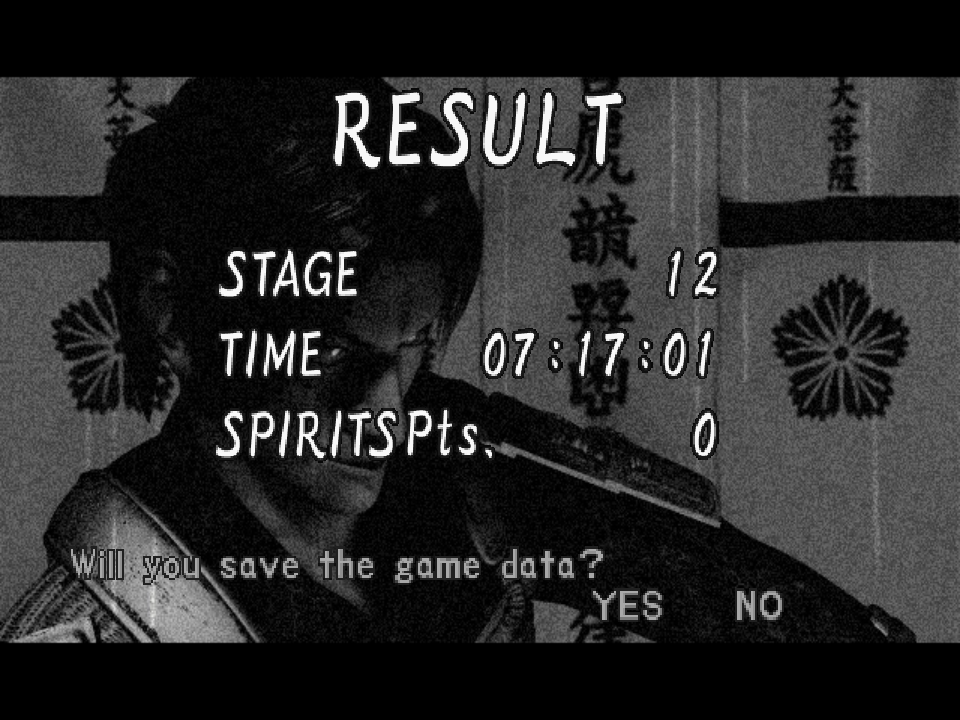
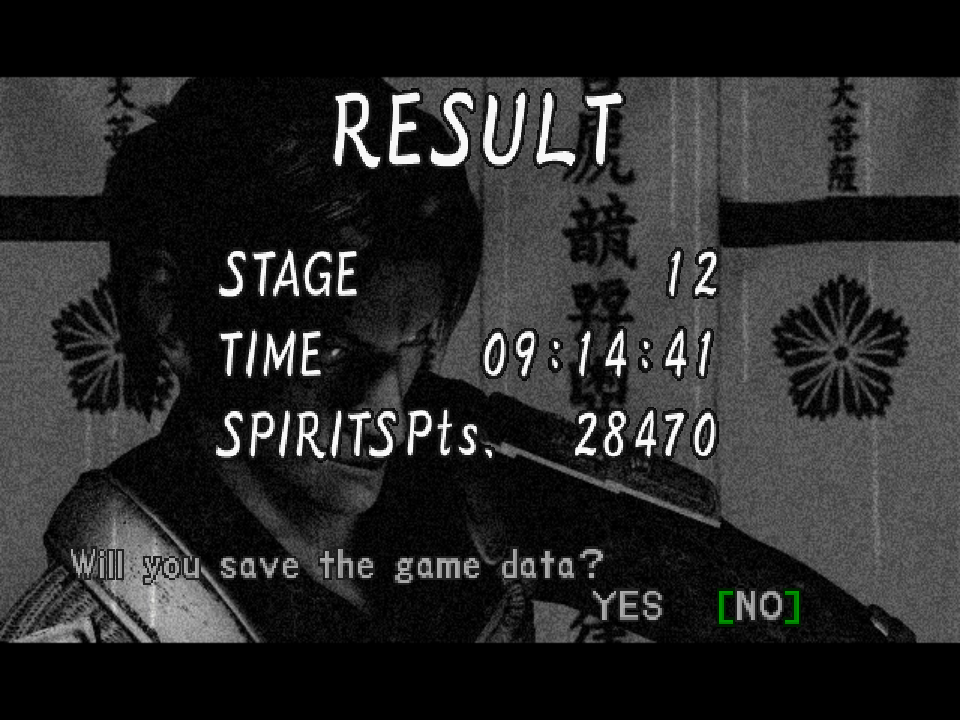
Movie captions drawn; sound measured on the real device; OPTION, Easy mode, spirit points checked
Captions: movies 04 and 05 carry caption lists (pairs of picture count and
caption) and the game draws a band of a caption sheet it keeps in VRAM
over the picture. The native vblankHandler now walks the list and
drawOver puts the band over the picture; checked on LINKS05.

Sound: with ONI_AUDIO_STATS a hidden window opens the real device and
feeds it silence of the frames' length, so scripted runs count underruns
on the device's clock. The late fights and the Dark Realm: none; Boss 3's
doorway load: a few.

Also checked: every OPTION page; Easy mode after the fourth game over
(the bot's new poke step sets the counter); Oni Spirits' points, the
grounds now absorbing the spirits (RESULT 28470 SPIRITS Pts.).

diff --git a/runtime/oni_movie.cpp b/runtime/oni_movie.cpp
@@ -11,6 +11,7 @@
 // it also ends the game frame while a movie shows, since the main thread sleeps through the movie.
 #include "oni_render.h"
 #include "oni_vu1.h"
+#include "oni_tex.h"
 
 #include "bozo/ee/dispatcher.h"
 #include "bozo/render/movie.h"
@@ -31,6 +32,13 @@ namespace oni::movie
         constexpr uint32_t kFadeLevel = kGp - 0x6b00, kFadeTimer = kGp - 0x6afc, kFadeType = kGp - 0x6ae8; // int, short, short
         constexpr uint32_t kVoBuf = 0x460ec0;     // +4 tags, +8 next index, +0xc count, +0x10 size
         constexpr uint32_t kTagStride = 0x34c40;  // VoTag: its state, then the odd (+0x40) and even (+0x1a640) chains
+        // Captions (movies 04 and 05: the caption04* / caption05* lists Movie_task_exe picks by the text and voice
+        // languages, 0x2875ce and 0x287600): Movie_cap_ptr walks pairs (picture count, caption), the count being
+        // 0x460f48; the caption is a 56-row band of a 512-wide sheet the game keeps in VRAM (Vram_info_get 0x1211
+        // English, 0x1111 Japanese: its TEX0 at gp - 0x6af0), the band a list's count names being empty. 0x287cbe set:
+        // no captions.
+        constexpr uint32_t kCaptionPtr = kGp - 0x6ad4, kCaption = kGp - 0x6af8, kCaptionTex0 = kGp - 0x6af0;
+        constexpr uint32_t kCaptionCount = 0x460f48, kCaptionsOff = 0x287cbe;
 
         uint32_t read32(const uint8_t *ram, uint32_t a)
         {
@@ -55,6 +63,8 @@ namespace oni::movie
         // darkening. Once termAll removes the handler the game's frames are its own again (the fade level stays where
         // the movie's end left it, black, until the next movie).
         bool g_inHandler = false;
+        int32_t g_caption = -1; // the caption shown (-1: none: the movie has no list, or captions are off)
+        uint64_t g_captionTex0 = 0;
 
         void onPicture(uint32_t, uint32_t width, uint32_t height, const uint8_t *rgba)
         {
@@ -110,6 +120,27 @@ namespace oni::movie
                     const int32_t next = static_cast<int32_t>(read32(ram, kVoBuf + 0x8));
                     const uint32_t oldest = static_cast<uint32_t>(((next - count) % size + size) % size);
                     const uint32_t tag = read32(ram, kVoBuf + 0x4) + oldest * kTagStride;
+                    // vblankHandler's captions: the list's next pair once the picture count reaches it (one a field);
+                    // dispSetTags's sprite starts on band 0, the list's first pair blanks it at once.
+                    uint16_t off;
+                    std::memcpy(&off, ram + kCaptionsOff, 2);
+                    const uint32_t ptr = read32(ram, kCaptionPtr);
+                    const int32_t at = ptr ? static_cast<int32_t>(read32(ram, ptr)) : -1;
+                    if (off || !ptr)
+                        g_caption = -1;
+                    else if (at >= 0)
+                    {
+                        if (g_caption < 0)
+                            g_caption = 0;
+                        const int32_t count = static_cast<int32_t>(read32(ram, kCaptionCount));
+                        if (count > 0 && count >= at)
+                        {
+                            g_caption = static_cast<int32_t>(read32(ram, ptr + 4));
+                            write32(ram, kCaption, static_cast<uint32_t>(g_caption));
+                            write32(ram, kCaptionPtr, ptr + 8);
+                        }
+                    }
+                    std::memcpy(&g_captionTex0, ram + kCaptionTex0, 8);
                     const uint32_t state = read32(ram, tag);
                     if ((field == 0 && state == 2u) || (field == 1 && state == 1u))
                     {
@@ -180,6 +211,7 @@ namespace oni::movie
                 g_showing = false;
             }
             g_brightness = 1.0f;
+            g_caption = -1; // (its own captions, if any)
             const uint32_t d = ctx->r[4].uw[0];
             write32(ram, d + 0x30, ctx->r[5].uw[0]);
             write32(ram, d + 0x34, ctx->r[6].uw[0]);
@@ -299,6 +331,34 @@ namespace oni::movie
             }
             oni::vu1::queueDraw(black, b, 6, nullptr);
             oni::vu1::queueDraw(m, v, 6, picture);
+            // The caption over the picture's bottom: dispSetTags's sprite, x 64..576, field lines 168..196 (frame
+            // 336..392), its band of the caption sheet (u 0..512, v caption * 56 ..+56), alpha-tested (TEST_1).
+            const auto sheet = g_caption >= 0 && g_captionTex0 ? oni::tex::fromTex0(g_captionTex0) : nullptr;
+            if (sheet && sheet->width && sheet->height)
+            {
+                bozo::render::Material c;
+                c.textured = true;
+                c.depthTest = c.depthWrite = false;
+                c.blend = bozo::render::Material::Blend::Opaque;
+                c.alphaTest = true;
+                c.alphaFunc = bozo::render::Material::AlphaFunc::Greater;
+                c.alphaRef = 0;
+                c.nearest = true;
+                c.clampU = c.clampV = true;
+                c.tex0 = g_captionTex0;
+                const float tw = static_cast<float>(sheet->width), th = static_cast<float>(sheet->height);
+                const float v0 = static_cast<float>(g_caption) * 56.0f;
+                bozo::render::Vertex cv[6];
+                for (int i = 0; i < 6; ++i)
+                {
+                    cv[i].x = s.originX + 64.0f + xs[i] * 512.0f;
+                    cv[i].y = s.originY + 336.0f + ys[i] * 56.0f;
+                    cv[i].u = xs[i] * 512.0f / tw;
+                    cv[i].v = (v0 + ys[i] * 56.0f) / th;
+                    cv[i].rgba = 0x80808080u;
+                }
+                oni::vu1::queueDraw(c, cv, 6, sheet);
+            }
         }
         if (g_brightness < 1.0f)
         {

diff --git a/runtime/oni_main.cpp b/runtime/oni_main.cpp
@@ -292,15 +292,31 @@ int main(int argc, char **argv)
             recording.write(pcm, count);
 #ifdef ONI_WITH_WINDOW
         if (window)
-            audio.push(pcm, count);
+        {
+            // A hidden window's device (ONI_AUDIO_STATS) gets silence of the same length: its clock, queue and
+            // underruns as a played game's, nothing heard. (SDL's dummy driver keeps no real clock: it took samples
+            // faster than 48 kHz and counted underruns that were its own.)
+            if (windowOptions.hidden)
+            {
+                static std::vector<int16_t> silence;
+                silence.assign(count * 2, 0); // (count: stereo frames)
+                audio.push(silence.data(), count);
+            }
+            else
+                audio.push(pcm, count);
+        }
 #endif
     };
     auto run = [&]()
     {
 #ifdef ONI_WITH_WINDOW
         if (window)
-            if (!windowOptions.hidden)
+        {
+            // A hidden window plays no sound; with ONI_AUDIO_STATS it opens the device and gives it silence (below):
+            // a scripted run's underruns counted on the real device's clock, nothing heard.
+            if (!windowOptions.hidden || std::getenv("ONI_AUDIO_STATS"))
                 audio.open();
+        }
 #endif
         uint64_t frames = 0;
         try

diff --git a/runtime/oni_bot.h b/runtime/oni_bot.h
@@ -23,6 +23,7 @@
 //                     enemy id ID), until the holy ground's quota is released or no pot stands (N frames in play,
 //                     7200; negative: then go on)
 //   cheat NAME on|off health, magic, souls, items or kills switched (the Cheats tab's)
+//   poke ADDR BYTE    one byte of RAM (hex address) set: a test's starting condition
 //   piece X Z [N]     walk straight onto (X, Z) until the control passes to the other character (stage 5 room 20)
 //   engage on|off     enemies on the way fought (on, the default) or passed by
 //   learn on|off      where the way is held, an obstacle is learnt and the way planned around it (off by default)

diff --git a/runtime/oni_bot.cpp b/runtime/oni_bot.cpp
@@ -1360,6 +1360,13 @@ namespace oni::bot
                 fail("pots: pots still standing");
             }
         }
+        else if (s.op == "poke")
+        {
+            // poke ADDR BYTE: one byte of the game's RAM set (hex address): a test's starting condition (a counter).
+            const uint32_t at = static_cast<uint32_t>(std::strtoul(s.args.empty() ? "0" : s.args[0].c_str(), nullptr, 16)) & 0x1ffffffu;
+            ram[at] = static_cast<uint8_t>(arg(s, 1, 0));
+            next();
+        }
         else if (s.op == "cheat")
         {
             // cheat NAME on|off: health, magic, souls, items, kills (the Cheats tab's switches).

diff --git a/docs/RECOMP_NOTES.md b/docs/RECOMP_NOTES.md
@@ -211,8 +211,16 @@ Native:
 - `switchThread` `0x1bd4c0` (`RotateThreadReadyQueue(1)`, which the player's threads spin on while they wait for each
   other) costs 0.1 ms of EE time per pass: tens of thousands of passes a field dropped the window to 54 frames/s,
   steady 60 now.
-- Captions (`Movie_cap_ptr`, the `caption*` tables) are not drawn yet; the US movies carry their English text in the
-  picture.
+- Captions (2026-11-25): movies 04 and 05 (the epilogue's narration over the army and Princess Yuki) have them, in all
+  four language settings (`Movie_task_exe` picks `movie_caption_tbl`, `_ve`, `_e` or `_e_vj` by the subtitle and
+  voice languages, 0x2875ce and 0x287600; the US default is `caption05e`), and nothing in the picture: the PSS are
+  640 x 336. A list is pairs (picture count, caption), the count being 0x460f48, -1 its end; `vblankHandler` takes
+  the next pair once the count reaches it, and `dispSetTags` draws a 512 x 56 sprite at x 64, field line 168, from
+  the caption sheet (VRAM `Vram_info_get` 0x1211 English, 0x1111 Japanese; its TEX0 at gp - 0x6af0), band `caption`
+  (an empty one between lines); 0x287cbe set: none. Natively `vblankHandler` walks the list the same way and
+  `drawOver` puts the band over the picture (alpha test). Checked on `LINKS05` (stage 2 room 1 by the warp): "The
+  demons' ambitions were shattered...", "However, when Yoshitatsu Saito died...", "...With Sokyu's blessing, she
+  left in a ship to see the world..." at their pictures.
 
 Result (2026-11-23): the attract movie (the opening) and New Game's intro and letter play in the window with their
 sound, 60 frames/s; START skips them; New Game reaches the first room's loading.
@@ -433,7 +441,7 @@ frames a second through the fight, the sound kept to real time (the host skips t
 
 ## Next
 
-- Movie captions; the effects of later scenes (magic, the souls), checked as they are reached.
+- The effects of later scenes (magic, the souls), checked as they are reached. (Movie captions: drawn since 2026-11-25.)
 - The six 640 x 64 CT32 uploads into block 0 (the frame buffer) at boot: not drawn yet, origin to find.
 
 ## The story bot (runtime/oni_bot.cpp, 2026-11-23)
@@ -806,4 +814,36 @@ below 5). Stage 4 room 7, twelve grounds (G+0x93f9 = 0x287229, 0 to 11):
   not be found" error, then "OK to create a file", YES), the boot into ground 1 (`2_boot.txt`), each ground from its
   own state (`3_grounds.txt`), a lost one played again a few frames later (up to four tries: ground 9 is won about
   five times in six). From scratch: all twelve won, the RESULT at 07:17:01.
+
+## Sound under load, the OPTION menu, Easy mode, spirit points (2026-11-25)
+
+- Sound: `ONI_AUDIO_STATS=1` with `--hidden` now opens the real playback device and feeds it silence of the
+  frames' length, so a scripted run's queue and underruns are measured on the device's own clock without being heard.
+  (SDL's dummy driver keeps no real clock: it read faster than 48 kHz and counted hundreds of underruns of its own.)
+  `build/story/perfa.sh` per scene, 32 ms queue target:
+
+| Scene (leg) | Seconds | Underruns | Lowest queue |
+| --- | --- | --- | --- |
+| The ogre boss (10) | 100 | 0 | 12.9 ms |
+| Boss 3 (48) | 66 | 6, 10 | 0.1 ms |
+| The Queen Bee (64) | 100 | 0 | 8.1 ms |
+| Marcellus (65) | 100 | 0 | 8.1 ms |
+| The King's Chamber (66) | 100 | 7, 0 | 10.2 ms |
+| Fortinbras and the ending (67) | 100 | 0, 0 (168 once) | 8.6 ms |
+| The Dark Realm's floors (68) | 150 | 0, 0 (163 once) | 6.9 ms |
+
+  The two runs with many were the machine busy (a 43 fps stretch at the ending movie in one run, none in two
+  others). Boss 3's few underruns repeat: at the doorway into room 42 (stage 2 room 44's cut 2 to room 42's cut
+  0, frames ~244560 and ~245040), a room load whose frame runs long (58 fps for two seconds): a crackle or two there.
+- OPTION (from the title, and the pause menu's): Language (voice), Subtitle, Subtit. Display, Sound Settings,
+  B.G.M. and S.E. volume, Vibration, Brightness (the monitor bars), Screen Adjust (moves the GS display; the
+  window keeps the picture centred), Controls (the pad's chart), BACK, DEFAULT: all open and draw.
+- Easy mode: `game_sp_move` 0x127aa0 counts the game overs at G+0x9771 (0x2875a1, kept in the save, capped at 100);
+  the fourth (or the third once story flag 0x1a is set) shows "Beginner mode, EASY, has become available." before
+  the title, and NEW GAME then offers Easy Mode / Normal Mode (enemies' life from `emNN_life_easy`). Checked with a
+  bot `poke 2875a1 3` and a fourth death at the ogre boss; an Easy game starts in the first room.
+- Oni Spirits' points: CIRCLE absorbs the released spirits, 100 SPIRITS Pts. each (0x287cb8; the RESULT's
+  `Onisol_seika_disp` reads it; the bonus spirits count more). `3_grounds.txt` now holds CIRCLE five seconds after
+  each quota: from scratch all twelve grounds again (ground 9 at its third try), the RESULT at 09:14:41 with 28470
+  SPIRITS Pts.
 

diff --git a/README.md b/README.md
@@ -65,6 +65,7 @@ the game, scene by scene.
 | The Magic Mirror: an in-game save to the memory card, loaded back from the title's LOAD GAME; ENHANCE (souls into swords and orbs) | ✅ |
 | After the credits: the GAME CLEAR DATA save and its unlocks, Special Feature (the Special Trailer, the Oni Spirits mini-game) and Samanosuke EXTRA (the panda costume) | ✅ |
 | Oni Spirits played through its twelve holy grounds by the bot, its farewell scene and RESULT | ✅ |
+| Movie captions (the epilogue's narration), the OPTION menu, Easy mode after four game overs | ✅ |
 | PC options: widescreen, render scale, anti-aliasing, frame interpolation, more cheats | ⏳ |
 
 ✅ works · 🔧 in progress · ⏳ not reached yet
@@ -74,6 +75,17 @@ what remains open.
 
 ## Screenshots
 
+**2026-11-25.** The movies' captions: the epilogue's narration (`LINKS04`, `LINKS05`) is captioned by the game from a
+sheet it keeps in video memory, which the port had not drawn; now it shows at each line's picture, in every language
+setting. Also checked: the OPTION menu (every page), Easy mode (offered after the fourth game over) and the sound
+under load, measured on the real device: no underruns in the late fights, a crackle or two at Boss 3's doorway.
+
+<p align="center">
+  <img src="docs/screenshots/2026-11-25-bozo-movie-caption.png" width="270" alt="The epilogue movie captioned: The demons' ambitions were shattered by the hand of Samanosuke and his friends.">
+  <img src="docs/screenshots/2026-11-25-bozo-options.png" width="270" alt="The Options page: Language, Subtitle, Sound Settings, volumes, Vibration, Brightness, Screen Adjust, Controls">
+  <img src="docs/screenshots/2026-11-25-bozo-easy-mode.png" width="270" alt="The title's NEW GAME offering Easy Mode and Normal Mode">
+</p>
+
 **2026-11-25.** Oni Spirits played through, all twelve holy grounds, by the bot from a boot with the clear data on
 the card (`scripts/story/oni_spirits/run.sh`): on each ground the pots broken until its quota of spirits is
 released (20 to 36; the time is Samanosuke's draining life), the enemies and the blue spirit that race for the pots,
@@ -82,7 +94,7 @@ the spirits' farewell after the twelfth ("You have truly become the Onimusha!") 
 <p align="center">
   <img src="docs/screenshots/2026-11-25-bozo-oni-spirits-ground3.png" width="270" alt="Oni Spirits' third ground: Samanosuke among the pots, the blue spirit diving on them, RELEASE 26">
   <img src="docs/screenshots/2026-11-25-bozo-oni-spirits-ending.png" width="270" alt="The spirits' farewell: Samanosuke in a pillar of violet light, subtitle: You have truly become the Onimusha!">
-  <img src="docs/screenshots/2026-11-25-bozo-oni-spirits-result.png" width="270" alt="Oni Spirits' RESULT: stage 12, time 07:17:01">
+  <img src="docs/screenshots/2026-11-25-bozo-oni-spirits-result.png" width="270" alt="Oni Spirits' RESULT: stage 12, time 09:14:41, 28470 SPIRITS Pts.">
 </p>
 
 **2026-11-25.** The window under load: the late fights (the ogre boss, Boss 3, the Queen Bee, Marcellus, the King's
